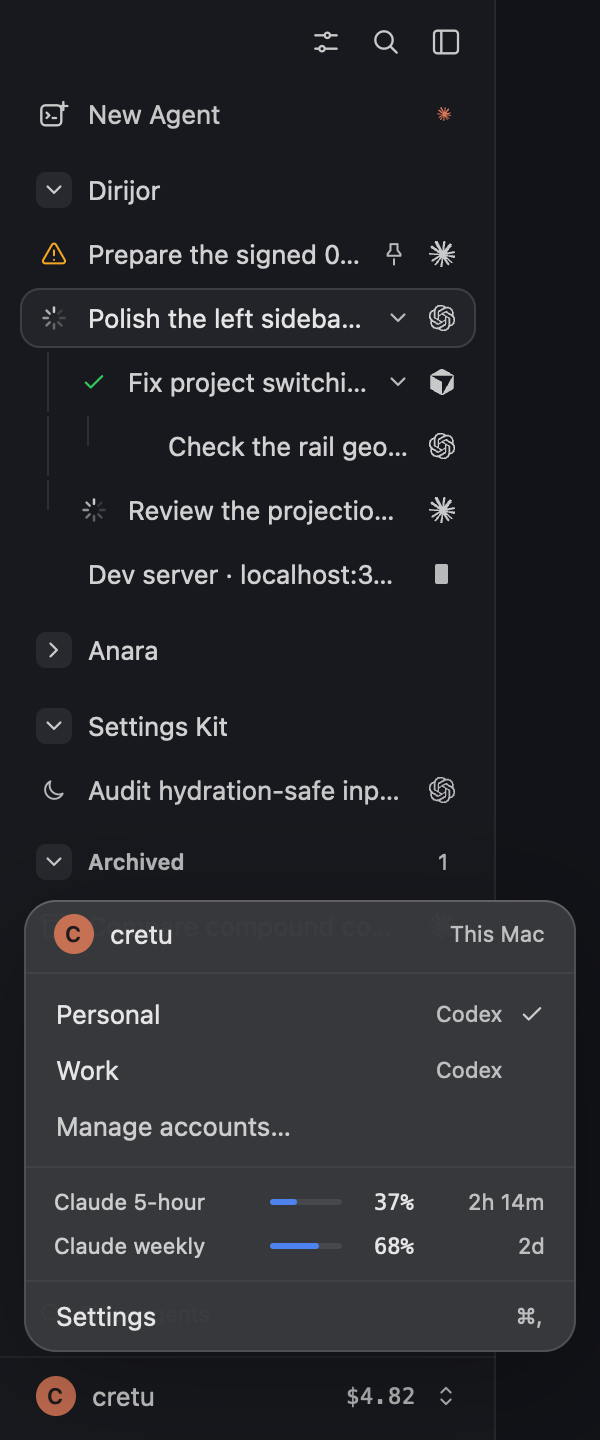
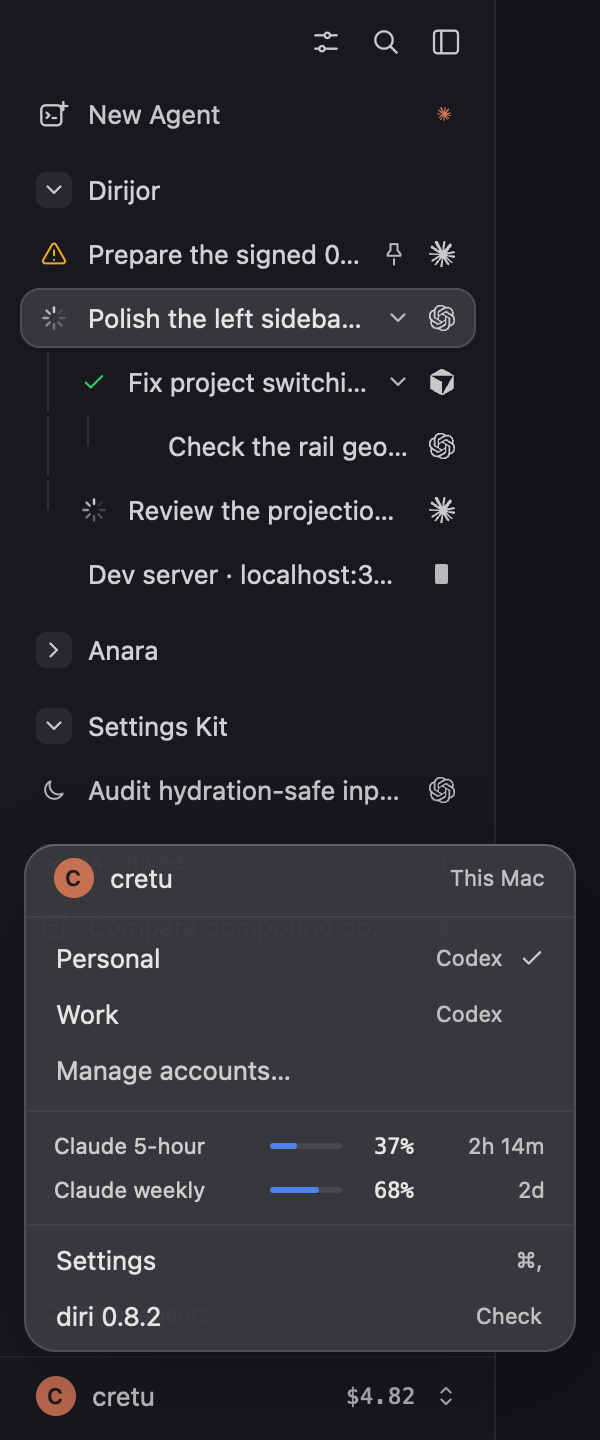
Keep the version row in the account menu
The version line with its Check, Download, or Restart action stays in
the menu at all times rather than only while an update is actionable.

diff --git a/diri/crates/diri-app/src/sidebar/view.rs b/diri/crates/diri-app/src/sidebar/view.rs
@@ -5517,22 +5517,26 @@ impl Sidebar {
         panel
     }
 
-    /// The update row only exists while there is an update to act on or
-    /// watch. Checking, the current version, and unsupported builds are
-    /// Settings and command-palette matters.
-    fn update_menu_row(
-        &self,
-        colors: SemanticColors,
-        cx: &mut Context<Self>,
-    ) -> Option<AnyElement> {
-        if self.preview {
-            return None;
-        }
-        let action = match &self.update.phase {
-            UpdatePhase::Available(_) => Some((UpdateCommand::Download, "Download")),
-            UpdatePhase::Ready(_) => Some((UpdateCommand::Install, "Restart")),
-            UpdatePhase::Downloading { .. } => None,
-            _ => return None,
+    /// Version and update state, always present: Check when idle, Download
+    /// or Restart when an update is available or staged, no action while a
+    /// check or download runs or on builds that cannot update themselves.
+    fn update_menu_row(&self, colors: SemanticColors, cx: &mut Context<Self>) -> AnyElement {
+        let unsupported = matches!(self.update.phase, UpdatePhase::Unsupported(_));
+        let command = match &self.update.phase {
+            UpdatePhase::Available(_) => Some(UpdateCommand::Download),
+            UpdatePhase::Ready(_) => Some(UpdateCommand::Install),
+            UpdatePhase::Checking | UpdatePhase::Downloading { .. } | UpdatePhase::Installing => {
+                None
+            }
+            _ if unsupported => None,
+            _ => Some(UpdateCommand::Check {
+                user_initiated: true,
+            }),
+        };
+        let label = if self.preview {
+            format!("diri {}", crate::updates::CURRENT_VERSION)
+        } else {
+            self.update.summary()
         };
         let mut row = div()
             .id("account-version")
@@ -5545,7 +5549,11 @@ impl Sidebar {
             .gap(px(8.0))
             .rounded(px(SIDEBAR_MENU_ROW_RADIUS))
             .text_size(px(Typo::ROW.size))
-            .text_color(colors.primary)
+            .text_color(if unsupported {
+                colors.tertiary
+            } else {
+                colors.primary
+            })
             .child(
                 div()
                     .min_w(px(0.0))
@@ -5553,9 +5561,14 @@ impl Sidebar {
                     .whitespace_nowrap()
                     .overflow_hidden()
                     .text_ellipsis()
-                    .child(self.update.summary()),
+                    .child(label),
             );
-        if let Some((command, label)) = action {
+        if let Some(command) = command {
+            let action = match command {
+                UpdateCommand::Download => "Download",
+                UpdateCommand::Install => "Restart",
+                _ => "Check",
+            };
             row = row
                 .cursor_pointer()
                 .glass_menu_row(colors, false)
@@ -5564,7 +5577,7 @@ impl Sidebar {
                         .flex_none()
                         .text_size(px(Typo::META.size))
                         .text_color(colors.tertiary)
-                        .child(label),
+                        .child(action),
                 )
                 .on_click(cx.listener(move |this, _, _, cx: &mut Context<Self>| {
                     cx.emit(SidebarEvent::Update(command.clone()));
@@ -5572,7 +5585,7 @@ impl Sidebar {
                     cx.notify();
                 }));
         }
-        Some(row.into_any_element())
+        row.into_any_element()
     }
 
     fn account_popover(&self, colors: SemanticColors, cx: &mut Context<Self>) -> PopoverSpec {
@@ -5586,9 +5599,8 @@ impl Sidebar {
          * animate independently: this is a frequent, keyboard-adjacent menu.
          *
          * Who is signed in, which login open tabs use, how much of each
-         * plan window is spent, and Settings. Everything else lives in
-         * Settings or the command palette; an update row appears only
-         * while there is one to act on.
+         * plan window is spent, Settings, and the version with its update
+         * action. Everything else lives in Settings or the command palette.
          * ───────────────────────────────────────────────────────── */
         let account_label = local_account_label(self.preview);
         let limits = if self.preview {
@@ -5651,9 +5663,7 @@ impl Sidebar {
                     cx.notify();
                 }),
             ))
-            .when_some(self.update_menu_row(colors, cx), |menu, row| {
-                menu.child(row)
-            })
+            .child(self.update_menu_row(colors, cx))
             .child(div().h(px(3.0)));
         self.popover_shell_above_footer(content, colors, cx)
     }
